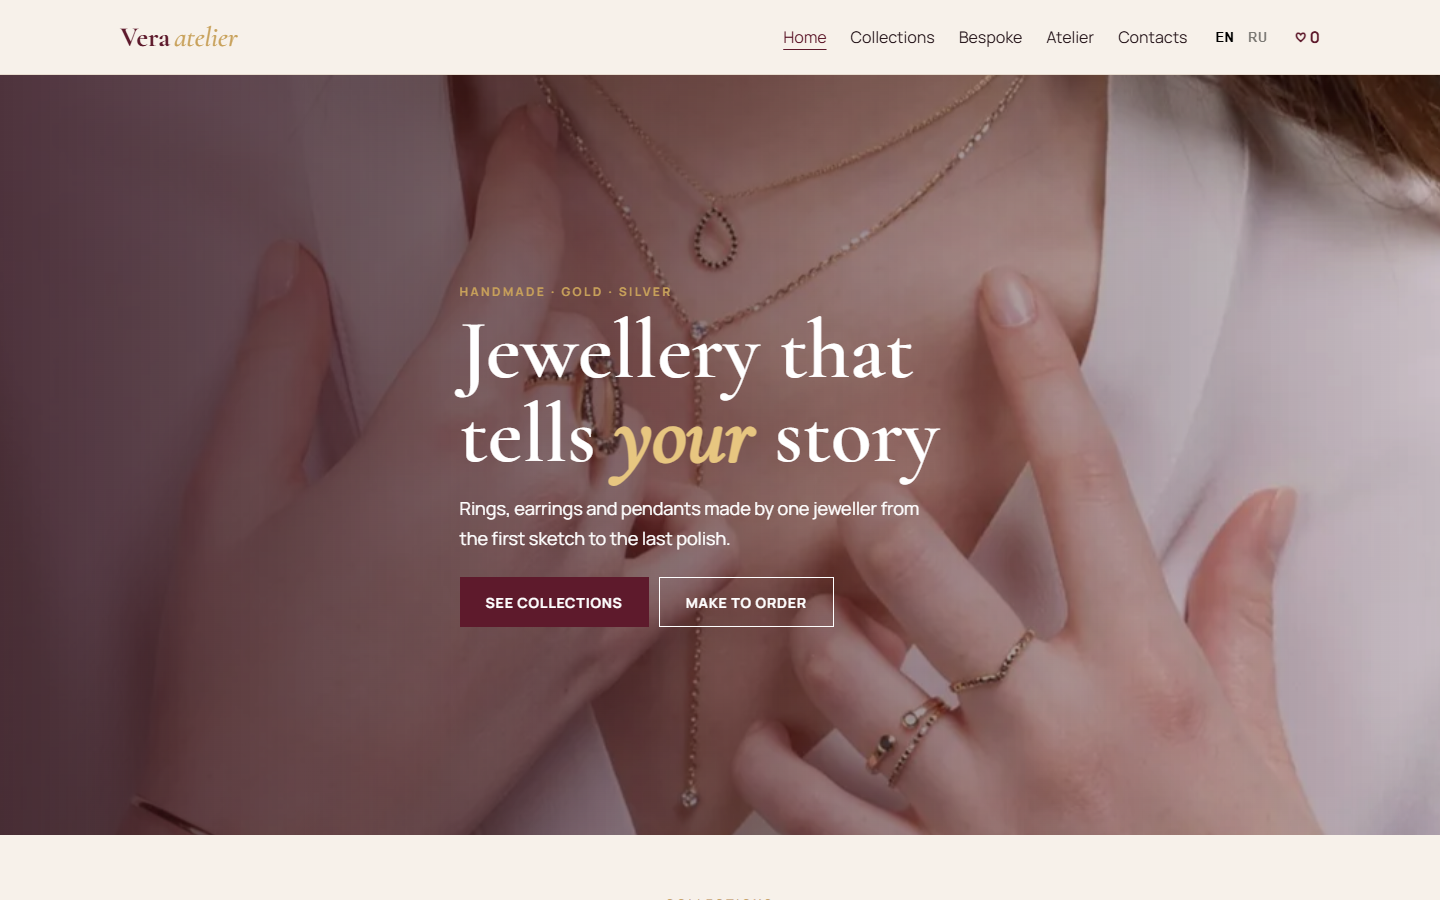
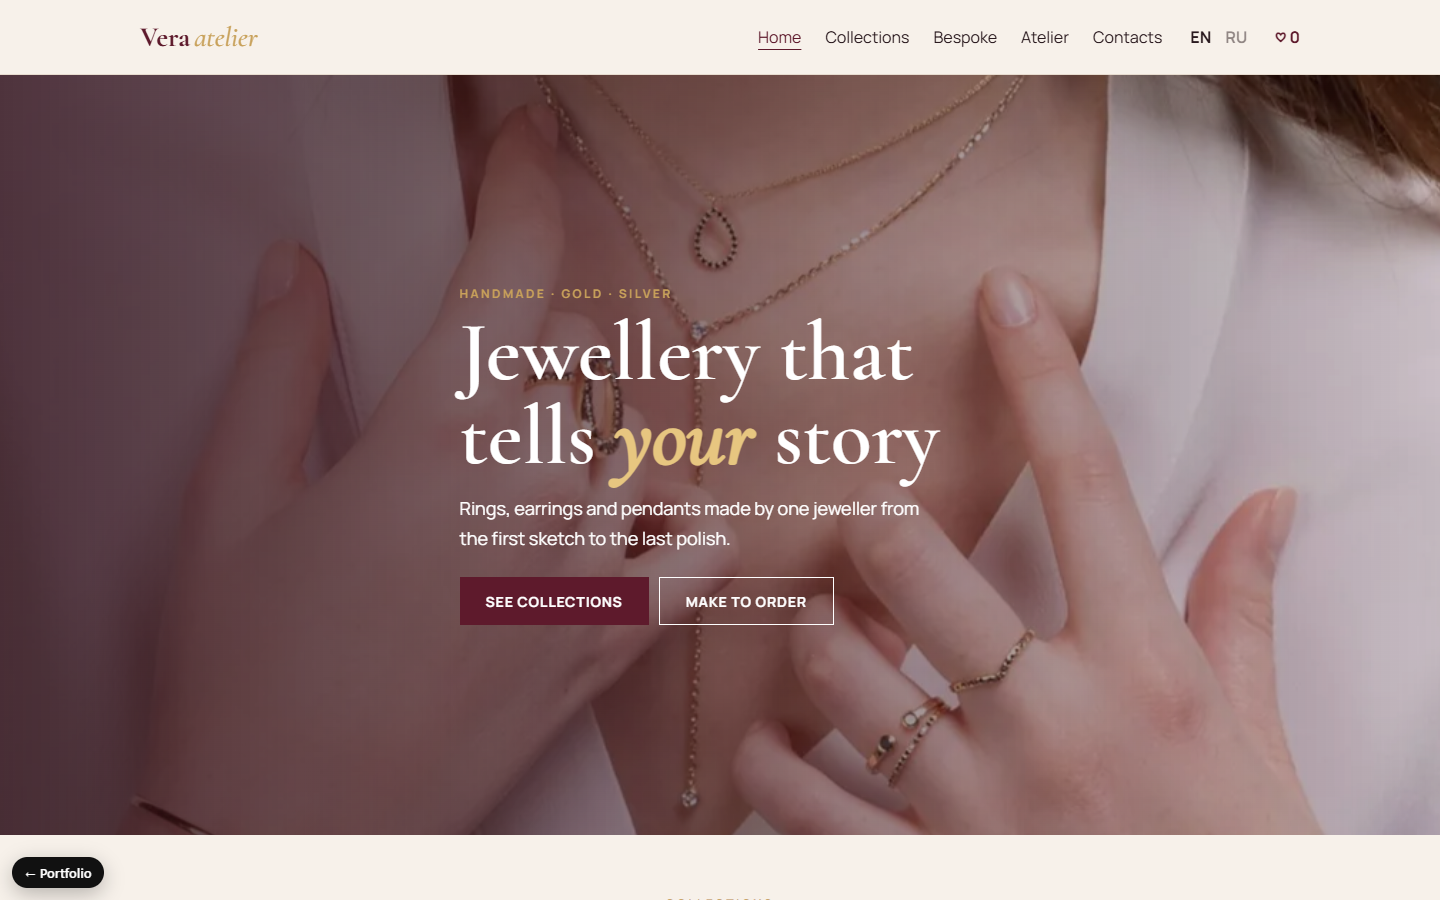
Site files, README and preview

diff --git a/about.html b/about.html
@@ -9,7 +9,7 @@
 <link rel="stylesheet" href="https://fonts.googleapis.com/css2?family=Cormorant+Garamond:ital,wght@0,500;0,600;0,700;1,500&family=Manrope:wght@400;500;700&display=swap">
 <link rel="stylesheet" href="_shared/_kit/kit.css">
 <link rel="stylesheet" href="style.css">
-<script>(function(){var d=document.documentElement,l=null,m=location.search.match(/[?&]lang=(en|ru)/);if(m)l=m[1];if(!l){try{l=localStorage.getItem('tpl-lang');}catch(e){}}if(l!=='en'&&l!=='ru')l=/^ru/i.test(navigator.language||'')?'ru':'en';d.setAttribute('data-lang',l);if(l==='ru')d.className+=' i18n-pending';})();</script>
+<script>(function(){var d=document.documentElement,l=null,m=location.search.match(/[?&]lang=(en|ru)/);if(m)l=m[1];if(!l){try{l=localStorage.getItem('tpl-lang');}catch(e){}}if(l!=='en'&&l!=='ru')l='en';d.setAttribute('data-lang',l);if(l==='ru')d.className+=' i18n-pending';})();</script>
 </head>
 <body>
 <header class="hd"><div class="w hd__in"><a class="logo" href="index.html">Vera<i>atelier</i></a><nav class="nav" data-nav><a href="index.html"><span data-t="k16">Home</span></a><a href="collections.html"><span data-t="k17">Collections</span></a><a href="bespoke.html"><span data-t="k18">Bespoke</span></a><a href="about.html" aria-current="page"><span data-t="k19">Atelier</span></a><a href="contacts.html"><span data-t="k20">Contacts</span></a></nav><div class="lang" role="group" aria-label="Language"><button type="button" data-lang="en" aria-pressed="true">EN</button><button type="button" data-lang="ru" aria-pressed="false">RU</button></div><a class="bag" href="collections.html" aria-label="Wishlist" data-ta="aria-label:k21">♡ <b data-fav-n>0</b></a><button class="burger" type="button" data-burger aria-expanded="false" aria-label="Menu" data-ta="aria-label:k22"><span></span></button></div></header>

diff --git a/bespoke.html b/bespoke.html
@@ -9,7 +9,7 @@
 <link rel="stylesheet" href="https://fonts.googleapis.com/css2?family=Cormorant+Garamond:ital,wght@0,500;0,600;0,700;1,500&family=Manrope:wght@400;500;700&display=swap">
 <link rel="stylesheet" href="_shared/_kit/kit.css">
 <link rel="stylesheet" href="style.css">
-<script>(function(){var d=document.documentElement,l=null,m=location.search.match(/[?&]lang=(en|ru)/);if(m)l=m[1];if(!l){try{l=localStorage.getItem('tpl-lang');}catch(e){}}if(l!=='en'&&l!=='ru')l=/^ru/i.test(navigator.language||'')?'ru':'en';d.setAttribute('data-lang',l);if(l==='ru')d.className+=' i18n-pending';})();</script>
+<script>(function(){var d=document.documentElement,l=null,m=location.search.match(/[?&]lang=(en|ru)/);if(m)l=m[1];if(!l){try{l=localStorage.getItem('tpl-lang');}catch(e){}}if(l!=='en'&&l!=='ru')l='en';d.setAttribute('data-lang',l);if(l==='ru')d.className+=' i18n-pending';})();</script>
 </head>
 <body>
 <header class="hd"><div class="w hd__in"><a class="logo" href="index.html">Vera<i>atelier</i></a><nav class="nav" data-nav><a href="index.html"><span data-t="k36">Home</span></a><a href="collections.html"><span data-t="k37">Collections</span></a><a href="bespoke.html" aria-current="page"><span data-t="k38">Bespoke</span></a><a href="about.html"><span data-t="k39">Atelier</span></a><a href="contacts.html"><span data-t="k40">Contacts</span></a></nav><div class="lang" role="group" aria-label="Language"><button type="button" data-lang="en" aria-pressed="true">EN</button><button type="button" data-lang="ru" aria-pressed="false">RU</button></div><a class="bag" href="collections.html" aria-label="Wishlist" data-ta="aria-label:k41">♡ <b data-fav-n>0</b></a><button class="burger" type="button" data-burger aria-expanded="false" aria-label="Menu" data-ta="aria-label:k42"><span></span></button></div></header>

diff --git a/collections.html b/collections.html
@@ -9,7 +9,7 @@
 <link rel="stylesheet" href="https://fonts.googleapis.com/css2?family=Cormorant+Garamond:ital,wght@0,500;0,600;0,700;1,500&family=Manrope:wght@400;500;700&display=swap">
 <link rel="stylesheet" href="_shared/_kit/kit.css">
 <link rel="stylesheet" href="style.css">
-<script>(function(){var d=document.documentElement,l=null,m=location.search.match(/[?&]lang=(en|ru)/);if(m)l=m[1];if(!l){try{l=localStorage.getItem('tpl-lang');}catch(e){}}if(l!=='en'&&l!=='ru')l=/^ru/i.test(navigator.language||'')?'ru':'en';d.setAttribute('data-lang',l);if(l==='ru')d.className+=' i18n-pending';})();</script>
+<script>(function(){var d=document.documentElement,l=null,m=location.search.match(/[?&]lang=(en|ru)/);if(m)l=m[1];if(!l){try{l=localStorage.getItem('tpl-lang');}catch(e){}}if(l!=='en'&&l!=='ru')l='en';d.setAttribute('data-lang',l);if(l==='ru')d.className+=' i18n-pending';})();</script>
 </head>
 <body>
 <header class="hd"><div class="w hd__in"><a class="logo" href="index.html">Vera<i>atelier</i></a><nav class="nav" data-nav><a href="index.html"><span data-t="k72">Home</span></a><a href="collections.html" aria-current="page"><span data-t="k73">Collections</span></a><a href="bespoke.html"><span data-t="k74">Bespoke</span></a><a href="about.html"><span data-t="k75">Atelier</span></a><a href="contacts.html"><span data-t="k76">Contacts</span></a></nav><div class="lang" role="group" aria-label="Language"><button type="button" data-lang="en" aria-pressed="true">EN</button><button type="button" data-lang="ru" aria-pressed="false">RU</button></div><a class="bag" href="collections.html" aria-label="Wishlist" data-ta="aria-label:k77">♡ <b data-fav-n>0</b></a><button class="burger" type="button" data-burger aria-expanded="false" aria-label="Menu" data-ta="aria-label:k78"><span></span></button></div></header>

diff --git a/contacts.html b/contacts.html
@@ -9,7 +9,7 @@
 <link rel="stylesheet" href="https://fonts.googleapis.com/css2?family=Cormorant+Garamond:ital,wght@0,500;0,600;0,700;1,500&family=Manrope:wght@400;500;700&display=swap">
 <link rel="stylesheet" href="_shared/_kit/kit.css">
 <link rel="stylesheet" href="style.css">
-<script>(function(){var d=document.documentElement,l=null,m=location.search.match(/[?&]lang=(en|ru)/);if(m)l=m[1];if(!l){try{l=localStorage.getItem('tpl-lang');}catch(e){}}if(l!=='en'&&l!=='ru')l=/^ru/i.test(navigator.language||'')?'ru':'en';d.setAttribute('data-lang',l);if(l==='ru')d.className+=' i18n-pending';})();</script>
+<script>(function(){var d=document.documentElement,l=null,m=location.search.match(/[?&]lang=(en|ru)/);if(m)l=m[1];if(!l){try{l=localStorage.getItem('tpl-lang');}catch(e){}}if(l!=='en'&&l!=='ru')l='en';d.setAttribute('data-lang',l);if(l==='ru')d.className+=' i18n-pending';})();</script>
 </head>
 <body>
 <header class="hd"><div class="w hd__in"><a class="logo" href="index.html">Vera<i>atelier</i></a><nav class="nav" data-nav><a href="index.html"><span data-t="k10">Home</span></a><a href="collections.html"><span data-t="k11">Collections</span></a><a href="bespoke.html"><span data-t="k12">Bespoke</span></a><a href="about.html"><span data-t="k13">Atelier</span></a><a href="contacts.html" aria-current="page"><span data-t="k14">Contacts</span></a></nav><div class="lang" role="group" aria-label="Language"><button type="button" data-lang="en" aria-pressed="true">EN</button><button type="button" data-lang="ru" aria-pressed="false">RU</button></div><a class="bag" href="collections.html" aria-label="Wishlist" data-ta="aria-label:k15">♡ <b data-fav-n>0</b></a><button class="burger" type="button" data-burger aria-expanded="false" aria-label="Menu" data-ta="aria-label:k16"><span></span></button></div></header>

diff --git a/index.html b/index.html
@@ -9,7 +9,7 @@
 <link rel="stylesheet" href="https://fonts.googleapis.com/css2?family=Cormorant+Garamond:ital,wght@0,500;0,600;0,700;1,500&family=Manrope:wght@400;500;700&display=swap">
 <link rel="stylesheet" href="_shared/_kit/kit.css">
 <link rel="stylesheet" href="style.css">
-<script>(function(){var d=document.documentElement,l=null,m=location.search.match(/[?&]lang=(en|ru)/);if(m)l=m[1];if(!l){try{l=localStorage.getItem('tpl-lang');}catch(e){}}if(l!=='en'&&l!=='ru')l=/^ru/i.test(navigator.language||'')?'ru':'en';d.setAttribute('data-lang',l);if(l==='ru')d.className+=' i18n-pending';})();</script>
+<script>(function(){var d=document.documentElement,l=null,m=location.search.match(/[?&]lang=(en|ru)/);if(m)l=m[1];if(!l){try{l=localStorage.getItem('tpl-lang');}catch(e){}}if(l!=='en'&&l!=='ru')l='en';d.setAttribute('data-lang',l);if(l==='ru')d.className+=' i18n-pending';})();</script>
 </head>
 <body>
 <header class="hd"><div class="w hd__in"><a class="logo" href="index.html">Vera<i>atelier</i></a><nav class="nav" data-nav><a href="index.html" aria-current="page"><span data-t="k55">Home</span></a><a href="collections.html"><span data-t="k56">Collections</span></a><a href="bespoke.html"><span data-t="k57">Bespoke</span></a><a href="about.html"><span data-t="k58">Atelier</span></a><a href="contacts.html"><span data-t="k59">Contacts</span></a></nav><div class="lang" role="group" aria-label="Language"><button type="button" data-lang="en" aria-pressed="true">EN</button><button type="button" data-lang="ru" aria-pressed="false">RU</button></div><a class="bag" href="collections.html" aria-label="Wishlist" data-ta="aria-label:k60">♡ <b data-fav-n>0</b></a><button class="burger" type="button" data-burger aria-expanded="false" aria-label="Menu" data-ta="aria-label:k61"><span></span></button></div></header>

diff --git a/product.html b/product.html
@@ -9,7 +9,7 @@
 <link rel="stylesheet" href="https://fonts.googleapis.com/css2?family=Cormorant+Garamond:ital,wght@0,500;0,600;0,700;1,500&family=Manrope:wght@400;500;700&display=swap">
 <link rel="stylesheet" href="_shared/_kit/kit.css">
 <link rel="stylesheet" href="style.css">
-<script>(function(){var d=document.documentElement,l=null,m=location.search.match(/[?&]lang=(en|ru)/);if(m)l=m[1];if(!l){try{l=localStorage.getItem('tpl-lang');}catch(e){}}if(l!=='en'&&l!=='ru')l=/^ru/i.test(navigator.language||'')?'ru':'en';d.setAttribute('data-lang',l);if(l==='ru')d.className+=' i18n-pending';})();</script>
+<script>(function(){var d=document.documentElement,l=null,m=location.search.match(/[?&]lang=(en|ru)/);if(m)l=m[1];if(!l){try{l=localStorage.getItem('tpl-lang');}catch(e){}}if(l!=='en'&&l!=='ru')l='en';d.setAttribute('data-lang',l);if(l==='ru')d.className+=' i18n-pending';})();</script>
 </head>
 <body>
 <header class="hd"><div class="w hd__in"><a class="logo" href="index.html">Vera<i>atelier</i></a><nav class="nav" data-nav><a href="index.html"><span data-t="k22">Home</span></a><a href="collections.html" aria-current="page"><span data-t="k23">Collections</span></a><a href="bespoke.html"><span data-t="k24">Bespoke</span></a><a href="about.html"><span data-t="k25">Atelier</span></a><a href="contacts.html"><span data-t="k26">Contacts</span></a></nav><div class="lang" role="group" aria-label="Language"><button type="button" data-lang="en" aria-pressed="true">EN</button><button type="button" data-lang="ru" aria-pressed="false">RU</button></div><a class="bag" href="collections.html" aria-label="Wishlist" data-ta="aria-label:k27">♡ <b data-fav-n>0</b></a><button class="burger" type="button" data-burger aria-expanded="false" aria-label="Menu" data-ta="aria-label:k28"><span></span></button></div></header>
